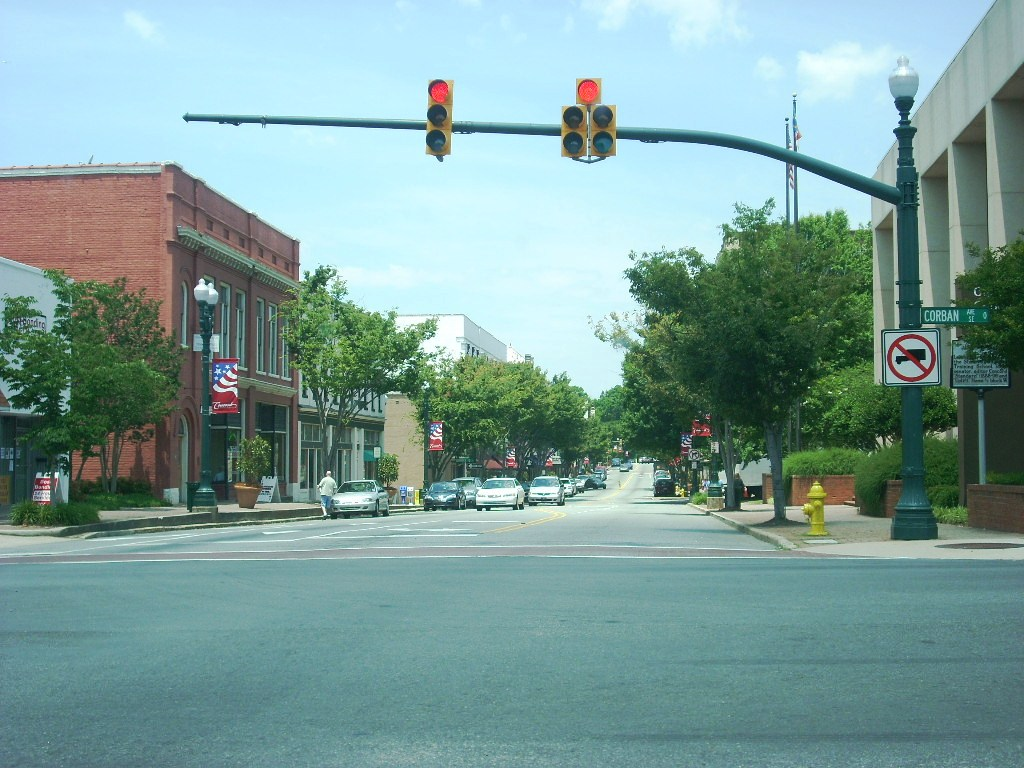
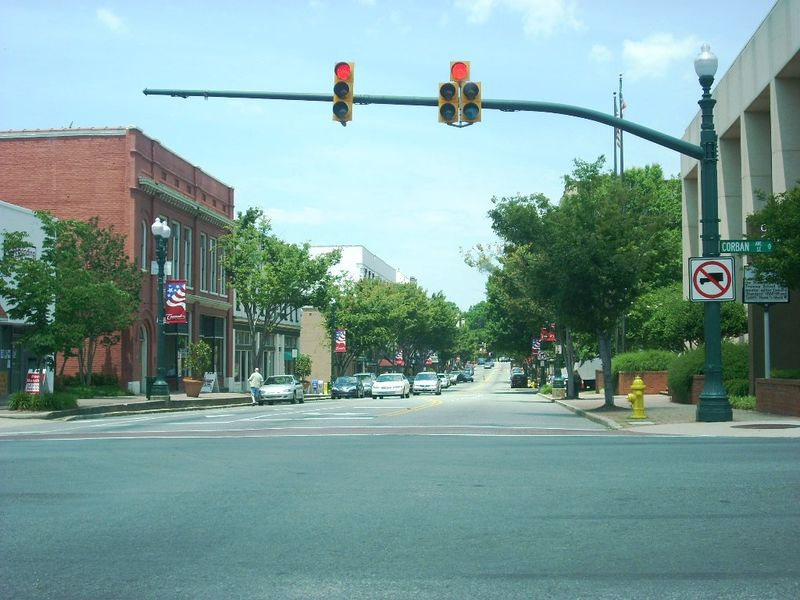
Header image fix

Changed region(s): [[0.875, 0.42, 0.9062, 0.45], [0.1875, 0.48, 0.2188, 0.51]]

diff --git a/index.html b/index.html
@@ -24,7 +24,7 @@
   </div>
 </header>
 <main id="main">
-<section class="hero" style="--hero-img:url('images/HomePage_Background_Home.png'); --hero-opacity:.3"><div class="wrap">
+<section class="hero" style="--hero-img:url('images/HomePage_Background_Home.jpg'); --hero-opacity:.3"><div class="wrap">
   <h1>Serving your real estate needs in the Carolinas since 2002.</h1>
   <p class="lead">Experienced brokers with integrity.</p>
   <div class="hero-actions"><a class="btn light" href="Buying_firm.html">Featured listings</a><a class="btn ghost-light" href="Buying.html">Search homes for sale</a></div>
@@ -40,8 +40,8 @@
 <section class="section alt"><div class="wrap">
   <h2>Explore our home areas</h2>
   <div class="grid3">
-    <a class="area-card" href="Concord.html"><img src="images/concord.jpg" alt="" width="181" height="145"><span><strong>Concord</strong>The Cabarrus County seat, with a historic downtown and fast access to Charlotte.</span></a>
-    <a class="area-card" href="Kannapolis.html"><img src="images/Kannapolis.jpg" alt="" width="117" height="90"><span><strong>Kannapolis</strong>A revitalized downtown, a research campus and a range of home styles.</span></a>
+    <a class="area-card" href="Concord.html"><img src="images/concord.jpg" alt="" width="800" height="600"><span><strong>Concord</strong>The Cabarrus County seat, with a historic downtown and fast access to Charlotte.</span></a>
+    <a class="area-card" href="Kannapolis.html"><img src="images/Kannapolis.jpg" alt="" width="466" height="313"><span><strong>Kannapolis</strong>A revitalized downtown, a research campus and a range of home styles.</span></a>
     <a class="area-card" href="Harrisburg.html"><img src="images/page1_img4.jpg" alt="" width="181" height="145"><span><strong>Harrisburg</strong>A growing town with newer neighborhoods and a small-town feel.</span></a>
   </div>
 </div></section>

diff --git a/Areas.html b/Areas.html
@@ -24,7 +24,7 @@
   </div>
 </header>
 <main id="main">
-<section class="hero" style="--hero-img:url('images/HomePage_Background_Home.png'); --hero-opacity:.3"><div class="wrap">
+<section class="hero" style="--hero-img:url('images/HomePage_Background_Home.jpg'); --hero-opacity:.3"><div class="wrap">
   <h1>Areas we serve</h1>
   <p class="lead">Guides to the communities where we help people buy and sell.</p>
 </div></section>
@@ -32,8 +32,8 @@
 <!-- <section class="page-head"><div class="wrap"><h1>Areas we serve</h1><p class="lead">Guides to the communities where we help people buy and sell.</p></div></section>
 <section class="section"><div class="wrap"> -->
   <div class="grid3">
-    <a class="area-card" href="Concord.html"><img src="images/concord.jpg" alt="" width="181" height="145"><span><strong>Concord</strong>Cabarrus County seat with a historic downtown.</span></a>
-    <a class="area-card" href="Kannapolis.html"><img src="images/Kannapolis.jpg" alt="" width="117" height="90"><span><strong>Kannapolis</strong>Revitalized downtown and a research campus.</span></a>
+    <a class="area-card" href="Concord.html"><img src="images/concord.jpg" alt="" width="800" height="600"><span><strong>Concord</strong>Cabarrus County seat with a historic downtown.</span></a>
+    <a class="area-card" href="Kannapolis.html"><img src="images/Kannapolis.jpg" alt="" width="466" height="313"><span><strong>Kannapolis</strong>Revitalized downtown and a research campus.</span></a>
     <a class="area-card" href="Harrisburg.html"><img src="images/page1_img4.jpg" alt="" width="181" height="145"><span><strong>Harrisburg</strong>Growing town with newer neighborhoods.</span></a>
   </div>
   <p class="more">We also serve Charlotte, Huntersville, Cornelius, Davidson, Mooresville, Albemarle, Matthews, Mint Hill, Indian Trail, Waxhaw, Fort Mill, Salisbury, Monroe and Gastonia.</p>

diff --git a/Aboutus.html b/Aboutus.html
@@ -24,7 +24,7 @@
        </div>
 </header>
 <main id="main">
-<section class="hero" style="--hero-img:url('images/HomePage_Background_Home.png'); --hero-opacity:.3"><div class="wrap">
+<section class="hero" style="--hero-img:url('images/HomePage_Background_Home.jpg'); --hero-opacity:.3"><div class="wrap">
   <h1>About us</h1>
   <p class="lead">Serving North Carolina home buyers and sellers since 2002.</p>
 </div></section>
@@ -36,7 +36,7 @@
     <p>Our core focus has always been the residential market. Our team is known for expertise and professionalism. We help property owners market their homes, and we serve home buyers, owners and investors.</p>
     <p>No matter how large or small your real estate needs, our experienced team will work to deliver strong results.</p>
   </div>
-  <img class="fig" src="images/About_us.jpg" alt="" width="182" height="160">
+  <img class="fig" src="images/About_us.jpg" alt="An RJR Real Estate Group sign with a Sold banner in front of a brick home" width="960" height="720">
 </div></section>
 <section class="cta"><div class="wrap">
   <div><h2>Work with us</h2><p>Call or send a message and we will get back to you quickly.</p></div>

diff --git a/Kannapolis.html b/Kannapolis.html
@@ -24,7 +24,7 @@
   </div>
 </header>
 <main id="main">
-<section class="hero" style="--hero-img:url('images/HomePage_Background_Home.png'); --hero-opacity:.3"><div class="wrap">
+<section class="hero" style="--hero-img:url('images/HomePage_Background_Home.jpg'); --hero-opacity:.3"><div class="wrap">
   <h1>Homes in Kannapolis, NC</h1>
   <p class="lead">A revitalized downtown and room to grow.</p>
 </div></section>
@@ -39,7 +39,7 @@
     <p>We can help you compare Kannapolis neighborhoods and find the right fit for your budget and commute.</p>
     <p><a class="btn" href="Buying.html">Search Kannapolis homes</a></p>
   </div>
-  <img class="fig" src="images/Kannapolis.jpg" alt="" width="181" height="145">
+  <img class="fig" src="images/Kannapolis.jpg" alt="A large brick building with columns and a landscaped walkway in Kannapolis, NC" width="466" height="313">
 </div></section>
 <section class="section alt"><div class="wrap narrow">
   <h2>Thinking of selling in Kannapolis?</h2>

diff --git a/Concord.html b/Concord.html
@@ -24,7 +24,7 @@
 </div>
 </header>
    <main id="main">
-<section class="hero" style="--hero-img:url('images/HomePage_Background_Home.png'); --hero-opacity:.3"><div class="wrap">
+<section class="hero" style="--hero-img:url('images/HomePage_Background_Home.jpg'); --hero-opacity:.3"><div class="wrap">
   <h1>Homes in Concord, NC</h1>
   <p class="lead">The Cabarrus County seat, close to Charlotte.</p>
 </div></section>
@@ -39,7 +39,7 @@
     <p>Whether you are buying your first home or selling a long-held one, we can walk you through Concord's neighborhoods and market.</p>
     <p><a class="btn" href="Buying.html">Search Concord homes</a></p>
   </div>
-  <img class="fig" src="images/concord.jpg" alt="" width="181" height="145">
+  <img class="fig" src="images/concord.jpg" alt="A tree-lined downtown street in Concord, NC" width="800" height="600">
 </div></section>
 <section class="section alt"><div class="wrap narrow">
   <h2>Thinking of selling in Concord?</h2>

diff --git a/Selling.html b/Selling.html
@@ -24,7 +24,7 @@
   </div>
 </header>
 <main id="main">
-<section class="hero" style="--hero-img:url('images/HomePage_Background_Home.png'); --hero-opacity:.3"><div class="wrap">
+<section class="hero" style="--hero-img:url('images/HomePage_Background_Home.jpg'); --hero-opacity:.3"><div class="wrap">
   <h1>Full service seller program</h1>
   <p class="lead">All the tools and expertise needed to sell your property.</p>
     <div class="hero-actions"><a class="btn light" href="Contacts.html">Request a consultation</a></div>

diff --git a/Buying.html b/Buying.html
@@ -24,7 +24,7 @@
 </div>
 </header>
 <main id="main">
-<section class="hero" style="--hero-img:url('images/HomePage_Background_Home.png'); --hero-opacity:.3"><div class="wrap">
+<section class="hero" style="--hero-img:url('images/HomePage_Background_Home.jpg'); --hero-opacity:.3"><div class="wrap">
   <h1>Search homes for sale</h1>
   <p class="lead">Browse local active listings.</p>
   <div class="hero-actions"><a class="btn light" href="Buying_firm.html">Featured listings</a></div>

diff --git a/Buying_firm.html b/Buying_firm.html
@@ -24,7 +24,7 @@
 </div>
 </header>
 <main id="main">
-<section class="hero" style="--hero-img:url('images/HomePage_Background_Home.png'); --hero-opacity:.3"><div class="wrap">
+<section class="hero" style="--hero-img:url('images/HomePage_Background_Home.jpg'); --hero-opacity:.3"><div class="wrap">
   <h1>View RJR properties for sale</h1>
   <p class="lead">Our firm's inventory.</p>
   <div class="hero-actions"><a class="btn light" href="Buying.html">Search all properties</a></div>

diff --git a/Contacts.html b/Contacts.html
@@ -24,7 +24,7 @@
   </div>
 </header>
 <main id="main">
-<section class="hero" style="--hero-img:url('images/HomePage_Background_Home.png'); --hero-opacity:.3"><div class="wrap">
+<section class="hero" style="--hero-img:url('images/HomePage_Background_Home.jpg'); --hero-opacity:.3"><div class="wrap">
   <h1>Contact us</h1>
   <p class="lead">Tell us what you are looking for and we will reply by phone or email.</p>
 </div></section>

diff --git a/Finance.html b/Finance.html
@@ -24,7 +24,7 @@
   </div>
 </header>
 <main id="main">
-<section class="hero" style="--hero-img:url('images/HomePage_Background_Home.png'); --hero-opacity:.3"><div class="wrap">
+<section class="hero" style="--hero-img:url('images/HomePage_Background_Home.jpg'); --hero-opacity:.3"><div class="wrap">
   <h1>About financing</h1>
   <p class="lead">We treat each customer as an individual, not a number.</p>
 </div></section>

diff --git a/Harrisburg.html b/Harrisburg.html
@@ -24,7 +24,7 @@
   </div>
 </header>
 <main id="main">
-<section class="hero" style="--hero-img:url('images/HomePage_Background_Home.png'); --hero-opacity:.3"><div class="wrap">
+<section class="hero" style="--hero-img:url('images/HomePage_Background_Home.jpg'); --hero-opacity:.3"><div class="wrap">
   <h1>Homes in Harrisburg, NC</h1>
   <p class="lead">A growing town with a small-town feel.</p>
 </div></section>

diff --git a/Privacy.html b/Privacy.html
@@ -24,7 +24,7 @@
   </div>
 </header>
 <main id="main">
-<section class="hero" style="--hero-img:url('images/HomePage_Background_Home.png'); --hero-opacity:.3"><div class="wrap">
+<section class="hero" style="--hero-img:url('images/HomePage_Background_Home.jpg'); --hero-opacity:.3"><div class="wrap">
   <h1>Privacy Policy</h1>
   <p class="lead">Last updated: October 24, 2026</p>
 </div></section>
